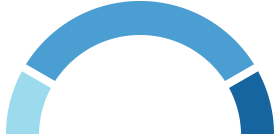
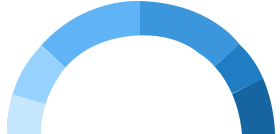
update meter chart

diff --git a/css/my-widget.css b/css/my-widget.css
@@ -308,7 +308,7 @@
 .techlooper-widget .meter-chart-version .meter-images{
   position: absolute;
   z-index: 88;
[2 lines of base64/hex data omitted]
   width: 280px;
   height: 136px;
   left: 0;
@@ -323,31 +323,57 @@
   bottom: 0;
 }
 .meter-chart .number-chart.dollar0{
-  left: -15px;
+  left: -13px;
   bottom: 0;
 }
+.techlooper-widget .meter-chart .number-chart{
+  font-size: 12px;
+}
 .techlooper-widget .meter-chart .number-chart.percent1{
-  left: 65px;
-  bottom: 45px;
+  left: 49px;
+  bottom: 22px;
 }
 .techlooper-widget .meter-chart .number-chart.dollar1{
-  left: -5px;
-  bottom: 70px;
+  left: -25px;
+  bottom: 37px;
 }
 .techlooper-widget .meter-chart .number-chart.percent2{
-  left: 190px;
-  bottom: 45px;
+  left: 70px;
+  bottom: 55px;
 }
 .techlooper-widget .meter-chart .number-chart.dollar2{
-  left: 260px;
-  bottom: 70px;
+  left: 7px;
+  bottom: 88px;
 }
 .techlooper-widget .meter-chart .number-chart.percent3{
+  left: 130px;
+  bottom: 82px;
+}
+.techlooper-widget .meter-chart .number-chart.dollar3{
+  left: 124px;
+  bottom: 134px;
+}
+.techlooper-widget .meter-chart .number-chart.percent4{
+  left: 184px;
+  bottom: 58px;
+}
+.techlooper-widget .meter-chart .number-chart.dollar4{
+  left: 242px;
+  bottom: 89px;
+}
+.techlooper-widget .meter-chart .number-chart.percent5{
+  left: 203px;
+  bottom: 32px;
+}
+.techlooper-widget .meter-chart .number-chart.dollar5{
+  left: 269px;
+  bottom: 52px;
+}
+.techlooper-widget .meter-chart .number-chart.percent6{
   left: 200px;
   bottom: 0px;
 }
 .techlooper-widget .meter-chart-version .meter-arrow{
[1 lines of base64/hex data omitted]
   width: 280px;
   height: 136px;
   position: absolute;
@@ -364,23 +390,35 @@
   padding: 20px 0 0 0;
 }
 .techlooper-widget .meter-chart-version .meter-arrow.position1{
[2 lines of base64/hex data omitted]
 }
 .techlooper-widget .meter-chart-version .meter-arrow.position2{
[2 lines of base64/hex data omitted]
 }
 .techlooper-widget .meter-chart-version .meter-arrow.position3{
[2 lines of base64/hex data omitted]
 }
 .techlooper-widget .meter-chart-version .meter-arrow.position4{
[2 lines of base64/hex data omitted]
 }
 .techlooper-widget .meter-chart-version .meter-arrow.position5{
[2 lines of base64/hex data omitted]
 }
 .techlooper-widget .meter-chart-version .meter-arrow.position6{
[2 lines of base64/hex data omitted]
 }
 .techlooper-widget .meter-chart-version .meter-arrow.position7{
[2 lines of base64/hex data omitted]
+}
+.techlooper-widget .meter-chart-version .meter-arrow.position8{
[1 lines of base64/hex data omitted]
+}
+.techlooper-widget .meter-chart-version .meter-arrow.position9{
[1 lines of base64/hex data omitted]
+}
+.techlooper-widget .meter-chart-version .meter-arrow.position10{
[1 lines of base64/hex data omitted]
+}
+.techlooper-widget .meter-chart-version .meter-arrow.position11{
[1 lines of base64/hex data omitted]
 }

diff --git a/templates/template.html b/templates/template.html
@@ -1,55 +1,55 @@
 <div class="techlooper-widget">
-    <div class="salary-review horizontal">
-        <div class="tech-header">
-            <div class="col-sm-11">
-                <h2>{{translation.thisJobIsBetterThan}} {{salaryReview.salaryReport.percentRank}}% {{translation.ofJobLikeThis}}. <span>{{translation.baseOn}} {{salaryReview.salaryReport.numberOfJobs}} {{translation.jobs}}</span></h2>
-            </div>
-            <div class="col-sm-01">
-                <a href="http://techlooper.com/#/home" target="_blank" class="techlooper-logo" title="Click here go to the TechLooper">TechLooper.com</a>
-            </div>
-        </div>
-        <div class="row salary-chart salary-range-col-0{{salaryRanges.length+1}}">
-            <div class="col-sm-12">
-                <ul class="salary-list">
-                    <li>$0</li>
-                    {{#each salaryRanges: i}}
-                    <li>${{this.percentile}}</li>
-                    {{/each}}
-                </ul>
-                <ul class="phase-list">
-                    <li>
-                        <div class="phase-item percent0"></div>
-                    </li>
-                    {{#salaryRanges: i}}
-                    <li>
-                        <div class="phase-item percent{{i+1}}"></div>
-                    </li>
-                    {{/salaryRanges}}
-                </ul>
-                <ul class="percent-list">
-                    <li>0%</li>
-                    {{#each salaryRanges: i}}
-                    <li>{{this.percent}}%</li>
-                    {{/each}}
-                </ul>
+    <!--<div class="salary-review horizontal">-->
+        <!--<div class="tech-header">-->
+            <!--<div class="col-sm-11">-->
+                <!--<h2>{{translation.thisJobIsBetterThan}} {{salaryReview.salaryReport.percentRank}}% {{translation.ofJobLikeThis}}. <span>{{translation.baseOn}} {{salaryReview.salaryReport.numberOfJobs}} {{translation.jobs}}</span></h2>-->
+            <!--</div>-->
+            <!--<div class="col-sm-01">-->
+                <!--<a href="http://techlooper.com/#/home" target="_blank" class="techlooper-logo" title="Click here go to the TechLooper">TechLooper.com</a>-->
+            <!--</div>-->
+        <!--</div>-->
+        <!--<div class="row salary-chart salary-range-col-0{{salaryRanges.length+1}}">-->
+            <!--<div class="col-sm-12">-->
+                <!--<ul class="salary-list">-->
+                    <!--<li>$0</li>-->
+                    <!--{{#each salaryRanges: i}}-->
+                    <!--<li>${{this.percentile}}</li>-->
+                    <!--{{/each}}-->
+                <!--</ul>-->
+                <!--<ul class="phase-list">-->
+                    <!--<li>-->
+                        <!--<div class="phase-item percent0"></div>-->
+                    <!--</li>-->
+                    <!--{{#salaryRanges: i}}-->
+                    <!--<li>-->
+                        <!--<div class="phase-item percent{{i+1}}"></div>-->
+                    <!--</li>-->
+                    <!--{{/salaryRanges}}-->
+                <!--</ul>-->
+                <!--<ul class="percent-list">-->
+                    <!--<li>0%</li>-->
+                    <!--{{#each salaryRanges: i}}-->
+                    <!--<li>{{this.percent}}%</li>-->
+                    <!--{{/each}}-->
+                <!--</ul>-->
 
-            </div>
-            <div class="current-position" style="left: {{myPositionArrow}}px">
+            <!--</div>-->
+            <!--<div class="current-position" style="left: {{myPositionArrow}}px">-->
 
-                <div class="current-salary">
-                    <div class="salary">{{translation.thisJob}}: ${{salaryReview.netSalary}}</div>
-                    <div class="arrow">
-                        <i class="fa fa-caret-down"></i>
-                    </div>
-                </div>
-                <div class="position">
-                    <div class="dot">
-                        <i class="circle"></i>
-                    </div>
-                </div>
-            </div>
-        </div>
-    </div>
+                <!--<div class="current-salary">-->
+                    <!--<div class="salary">{{translation.thisJob}}: ${{salaryReview.netSalary}}</div>-->
+                    <!--<div class="arrow">-->
+                        <!--<i class="fa fa-caret-down"></i>-->
+                    <!--</div>-->
+                <!--</div>-->
+                <!--<div class="position">-->
+                    <!--<div class="dot">-->
+                        <!--<i class="circle"></i>-->
+                    <!--</div>-->
+                <!--</div>-->
+            <!--</div>-->
+        <!--</div>-->
+    <!--</div>-->
     <br/><br/><br/>
     <div class="salary-review meter">
         <div class="tech-header">
@@ -67,12 +67,18 @@
                 <div class="meter-chart">
                     <div class="meter-images"></div>
                     <div class="number-chart percent0">0%</div>
+                    <div class="number-chart percent1">10%</div>
+                    <div class="number-chart percent2">25%</div>
+                    <div class="number-chart percent3">50%</div>
+                    <div class="number-chart percent4">75%</div>
+                    <div class="number-chart percent5">90%</div>
                     <div class="number-chart dollar0">$0</div>
-                        <div class="number-chart percent1">{{salaryRanges[0].percent}}%</div>
-                        <div class="number-chart dollar1">${{salaryRanges[0].percentile}}</div>
-                        <div class="number-chart percent2">{{salaryRanges[salaryRanges.length-1].percent}}%</div>
-                        <div class="number-chart dollar2">${{salaryRanges[salaryRanges.length-1].percentile}}</div>
-                    <div class="number-chart percent3">100%</div>
+                    <div class="number-chart dollar1">${{salaryRanges[0].percentile}}</div>
+                    <div class="number-chart dollar2">${{salaryRanges[1].percentile}}</div>
+                    <div class="number-chart dollar3">${{salaryRanges[2].percentile}}</div>
+                    <div class="number-chart dollar4">${{salaryRanges[3].percentile}}</div>
+                    <div class="number-chart dollar5">${{salaryRanges[4].percentile}}</div>
+                    <div class="number-chart percent6">100%</div>
                     <div class="meter-arrow position{{myPositionMeter}}"></div>
                 </div>
                 <div class="current-salary">

diff --git a/app/app.js b/app/app.js
@@ -10,7 +10,7 @@ if (typeof define === "function" && define.amd && define.amd.jQuery) {
       app.$container = $("#tlw");
 
       //const values used to calculate salary-review data
-      var preferMeterValues = [160, 130, 90, 85, 45, 18];
+      var preferMeterValues = [170, 162, 148, 135, 112, 90, 67, 45, 31, 18, 8];
       var mapProperties = {
         jobId: "techlooperJobId"
       }
